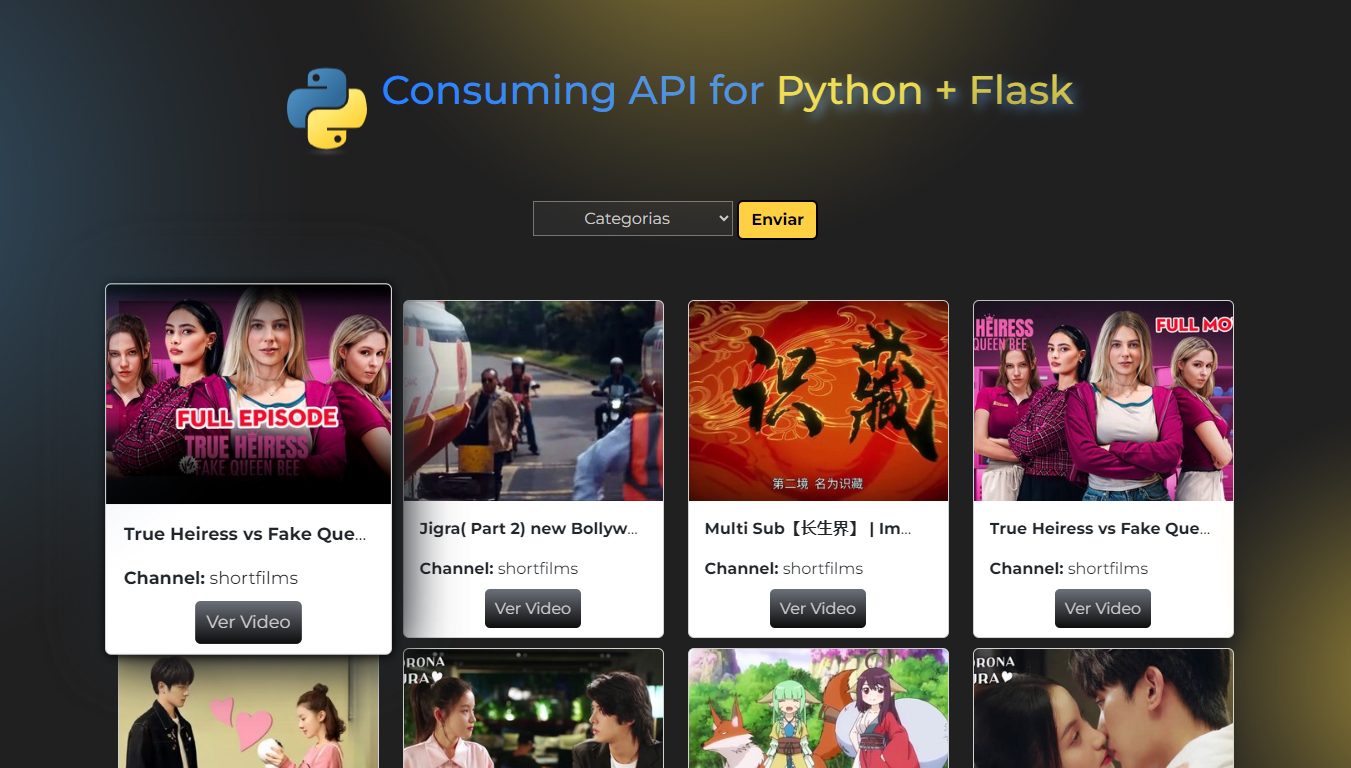
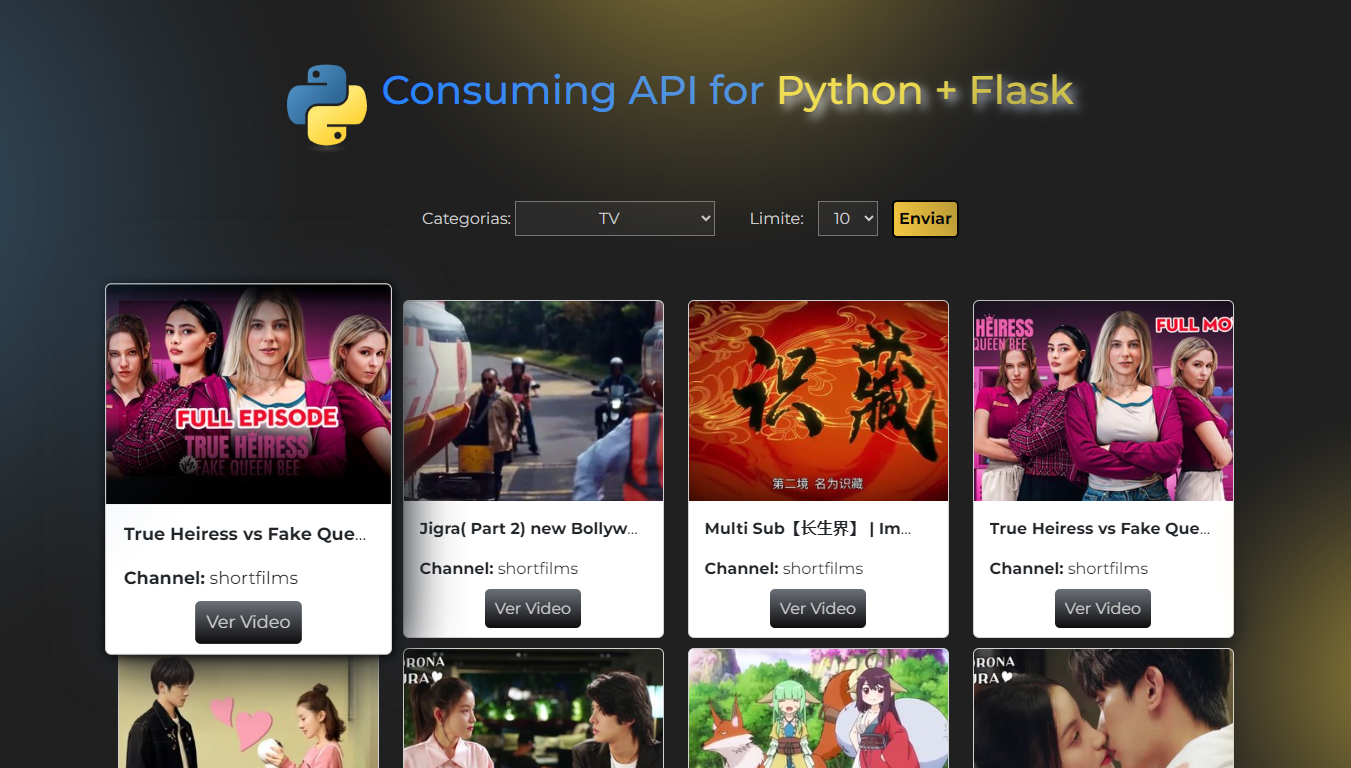
Add filter limit

diff --git a/templates/index.html b/templates/index.html
@@ -11,22 +11,31 @@
 </head>
 <body>
     <div id="begin">
-    <img id="logo" src="https://raw.githubusercontent.com/devicons/devicon/master/icons/python/python-original.svg" width="100"/>
-    <h1>Consuming API for <span>Python + Flask</span></h1>
+        <img id="logo" src="static/images/logo.svg" width="100"/>
+        <h1>Consuming API for <span>Python + Flask</span></h1>
     </div>
 
+    {% if data %}
     <center>
         <form action="/category" method="POST" style="margin-bottom: 50px;">
+        <label for="categoria">Categorias: </label>
         <select name="categoria" id="categoria">
-            <option disabled selected>Categorias</option>
             <option value="sport">Sport</option>
             <option value="news">News</option>
-            <option value="tv">TV</option>
+            <option value="tv" selected>TV</option>
             <option value="videogames">Video Games</option>
             <option value="fun">Fun</option>
             <option value="shortfilms">Short Films</option>
         </select>
-        <button class="btn btn-success">Enviar</button>
+        <label for="count">Limite: </label>
+        <select name="count" id="count">
+            <option value="30">30</option>
+            <option value="20">20</option>
+            <option value="10" selected>10</option>
+            <option value="5">5</option>
+        </select>
+
+        <button class="btnEnviar">Enviar</button>
     </form>
     </center>
 
@@ -48,10 +57,15 @@
                 {% endfor %}
             </div>
     </div>
-
+    
     <div>
         <br>
     </div>
-
+    {% else %}
+        <center>
+            <h2>No se pudieron cargar los datos. </br>
+                Verifique su conexión a internet.</h2>
+        </center>
+    {% endif %}
 </body>
 </html>

diff --git a/static/css/index.css b/static/css/index.css
@@ -31,6 +31,14 @@ h1{
     display: inline;
 }
 
+h2, label{
+    color: #ccc;
+}
+
+label{
+    margin-left:30px;
+}
+
 span{
   color:rgb(237, 221, 83);
   animation-name: transition;
@@ -61,13 +69,24 @@ span{
     border: #202020 solid 2px;
 }
 
-select{
+#categoria{
     width:200px; 
     text-align: center;
     padding: 6px;
     background-color: #2a2a2a;
     color:#ccc;
     cursor: pointer;
+}
+
+#count{
+    width:60px; 
+    text-align: center;
+    padding: 6px;
+    background-color: #2a2a2a;
+    color:#ccc;
+    cursor: pointer;
+    margin-right:10px;
+    margin-left:10px;
 }
 
 .card:hover{
@@ -110,18 +129,21 @@ hr{
     padding-top: 50px;
 }
 
-.btn{
+.btnEnviar{
     /**overrride**/
     background-color: #ffd042 !important;
     color: black;
     font-weight:bold;
+    padding:5px;
     border: black solid 2px;
+    border-radius:5px;
 }
 
-.btn:Hover{
+.btnEnviar:Hover{
     /**overrride**/
     background-color: #92700a !important;
     border: black solid 2px;
+    color:#ccc;
 }
 
 

diff --git a/app.py b/app.py
@@ -1,24 +1,31 @@
 from flask import Flask, render_template, request
 import requests
+from requests.exceptions import ConnectionError
 
 app = Flask(__name__)
-limit = '20'
+#limit = '20'
 
-def constructJSON(categoryChannel):
-    dataObtain = requests.get('https://api.dailymotion.com/videos?channel='+categoryChannel+'&limit='+limit)
-    return dataObtain.json()
+def constructJSON(categoryChannel, limit):
+    try:
+        dataObtain = requests.get('https://api.dailymotion.com/videos?channel='+categoryChannel+'&limit='+limit)
+        if dataObtain.status_code == 200:
+            return dataObtain.json()
+        else:
+            return {'list': []} 
+    except ConnectionError:
+        return {'list': []}
 
 @app.route('/')
 def index():
-    dataJSON = constructJSON('tv')
-    return render_template('index.html', data = dataJSON['list'])
+    dataJSON = constructJSON('tv','10')
+    return render_template('index.html', data=dataJSON['list'])
 
 @app.route('/category', methods=['POST'])
 def categoria():
     categoria = request.form['categoria']
-    dataJSON = constructJSON(categoria)
-    return render_template('index.html', data = dataJSON['list'])
+    limit = request.form['count']
+    dataJSON = constructJSON(categoria, limit)
+    return render_template('index.html', data=dataJSON['list'])
 
 if __name__ == '__main__':
-    app.run(host = '127.0.0.1', port = 8000, debug = True)
- 
+    app.run(host='127.0.0.1', port=8000, debug=True)
